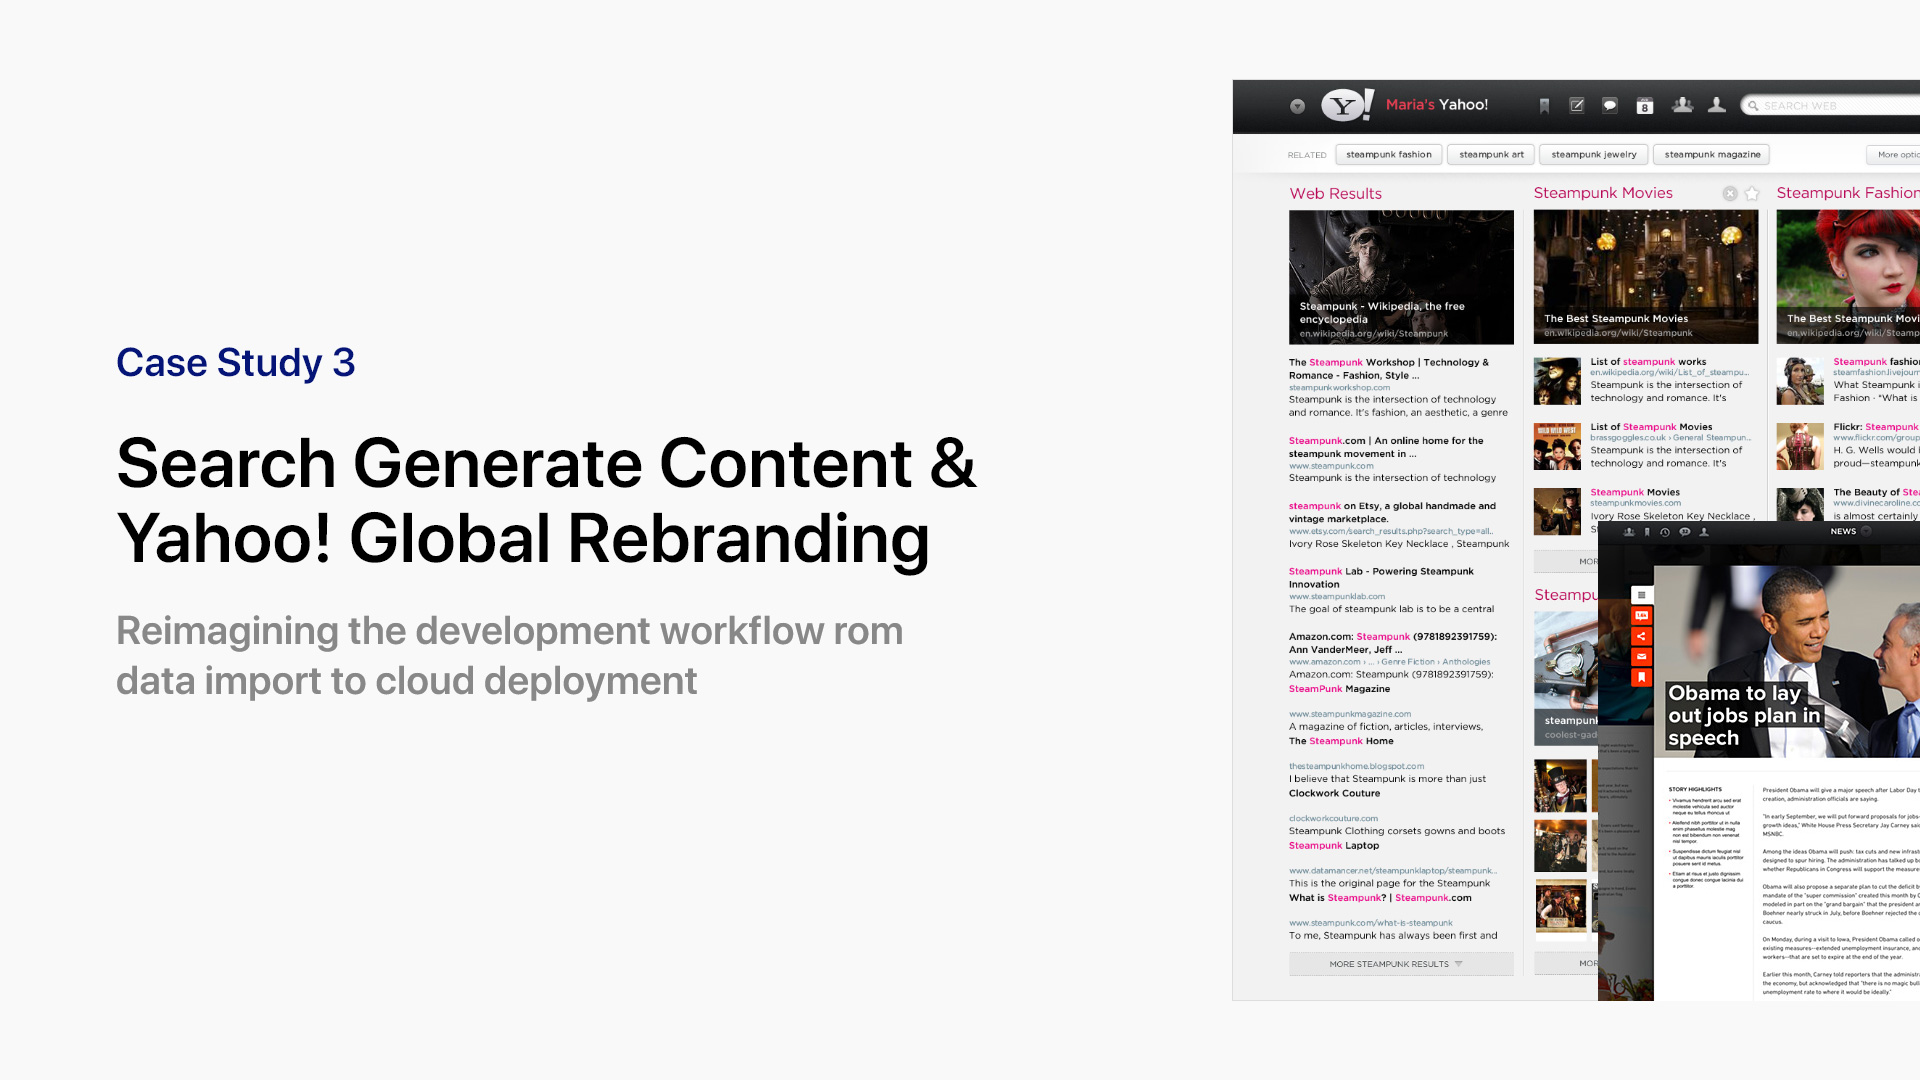
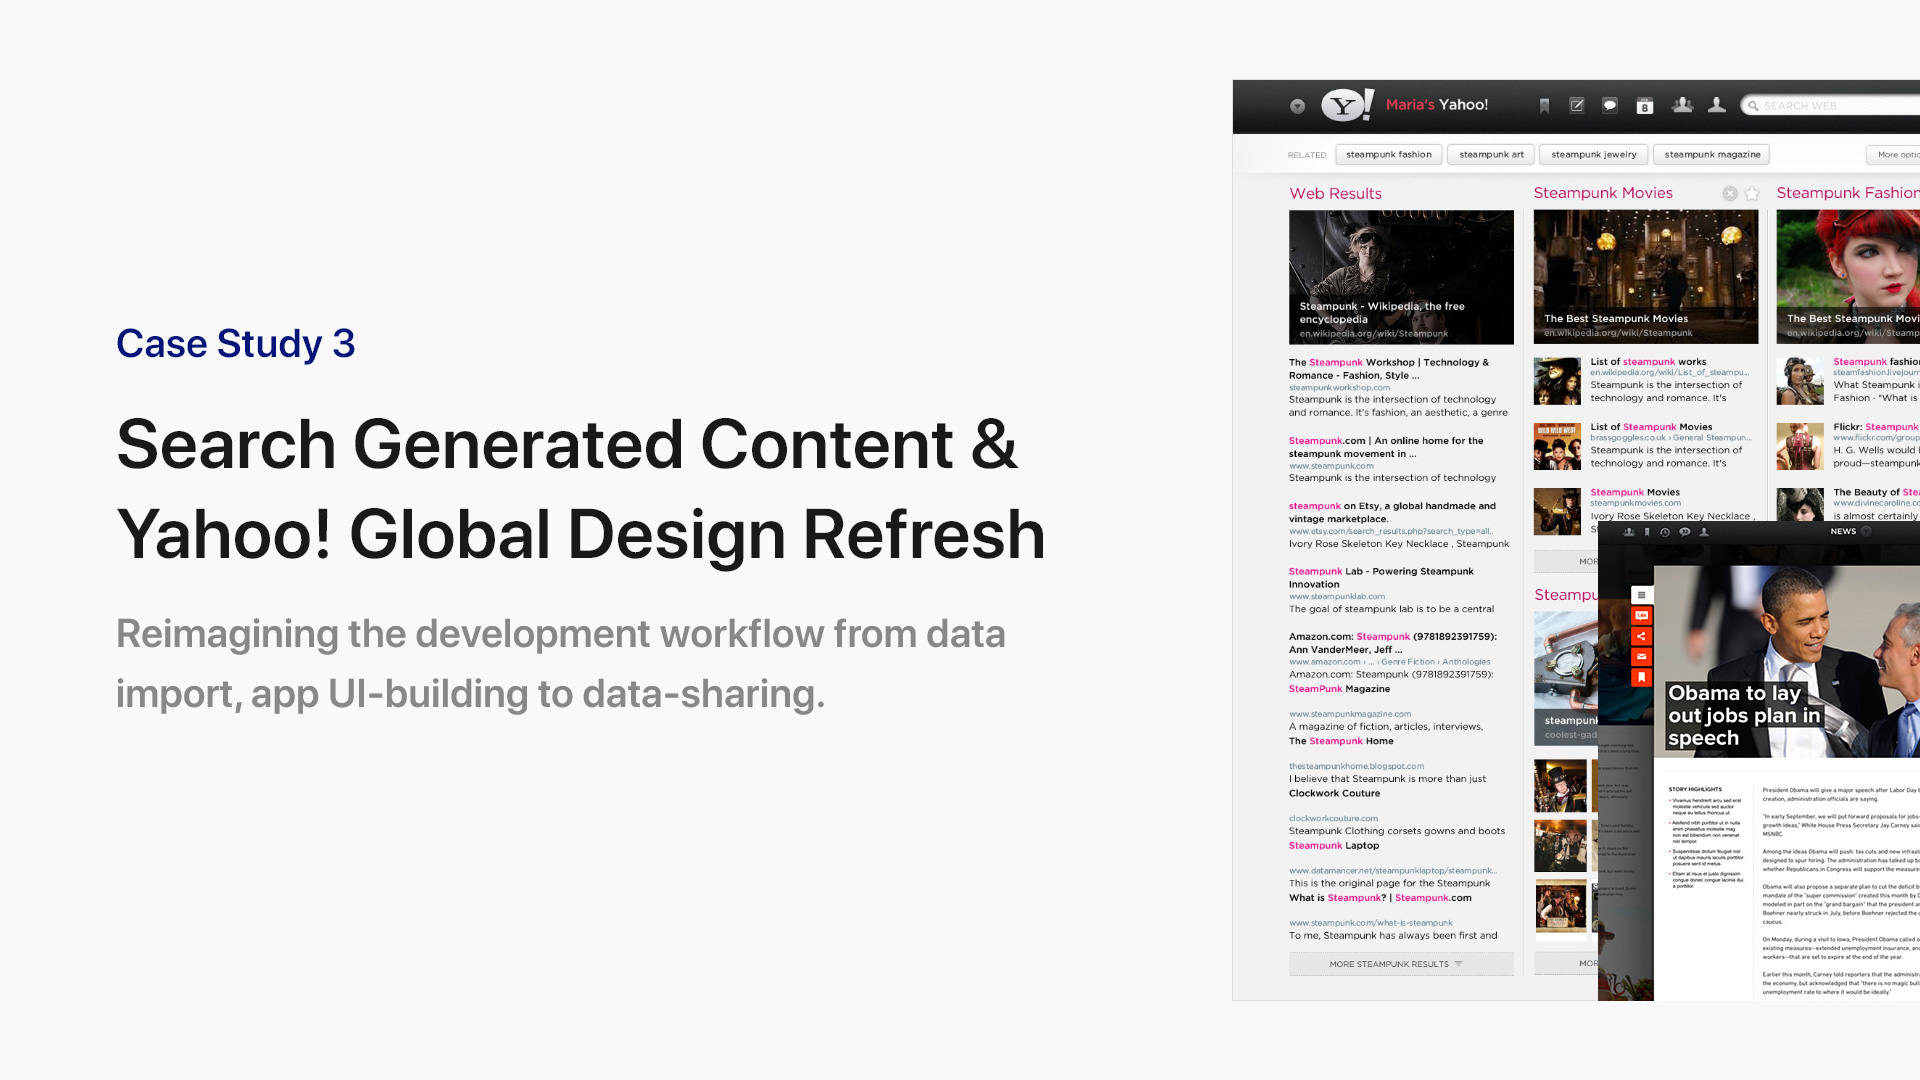
content update

Changed region(s): [[0.0625, 0.3056, 0.5625, 0.55], [0.0625, 0.55, 0.5312, 0.6722]]

diff --git a/8ec4981102569463be3512984154c66c098b92c5/index.html b/8ec4981102569463be3512984154c66c098b92c5/index.html
@@ -300,10 +300,16 @@
 			<hr class="my-5">
 			<h4 class="mt-4">Case Study 2 </h4><div class="small my-2">Cloud Administration Console & Mobile Client (2016)</div>
 			<div class="row row-negative-offset mt-3">
-			<div class="col-12 col-md-4 my-3">
+			<div class="col-12 col-md-6 my-3">
 				<div class="thumbnail-wrapper">
 					<a href="../img/portfolio/case_study2_01.jpg" data-toggle="lightbox" data-gallery="portfolio_slides">
 					<img src="../img/portfolio/case_study2_01.jpg" class="thumbnail"></a>
+				</div>
+			</div>
+			<div class="col-12 col-md-6 my-3">
+				<div class="thumbnail-wrapper">
+					<a href="../img/portfolio/case_study2_02.jpg" data-toggle="lightbox" data-gallery="portfolio_slides">
+					<img src="../img/portfolio/case_study2_02.jpg" class="thumbnail"></a>
 				</div>
 			</div>
 			<div class="col-12 col-md-4 my-3">
@@ -322,10 +328,16 @@
 			<hr class="my-5">
 			<h4 class="mt-4">Case Study 3 </h4><div class="small my-2">Search Generaged Content & Yahoo! Global Rebranding (2012)</div>
 			<div class="row row-negative-offset mt-3">
-			<div class="col-12 col-md-4 my-3">
+			<div class="col-12 col-md-6 my-3">
 				<div class="thumbnail-wrapper">
 					<a href="../img/portfolio/case_study3_01.jpg" data-toggle="lightbox" data-gallery="portfolio_slides">
 					<img src="../img/portfolio/case_study3_01.jpg" class="thumbnail"></a>
+				</div>
+			</div>
+			<div class="col-12 col-md-6 my-3">
+				<div class="thumbnail-wrapper">
+					<a href="../img/portfolio/case_study3_02.jpg" data-toggle="lightbox" data-gallery="portfolio_slides">
+					<img src="../img/portfolio/case_study3_02.jpg" class="thumbnail"></a>
 				</div>
 			</div>
 			<div class="col-12 col-md-4 my-3">
@@ -338,6 +350,12 @@
 				<div class="thumbnail-wrapper">
 					<a href="../img/portfolio/case_study3_04.jpg" data-toggle="lightbox" data-gallery="portfolio_slides">
 					<img src="../img/portfolio/case_study3_04.jpg" class="thumbnail"></a>
+				</div>
+			</div>
+			<div class="col-12 col-md-4 my-3">
+				<div class="thumbnail-wrapper">
+					<a href="../img/portfolio/case_study3_05.jpg" data-toggle="lightbox" data-gallery="portfolio_slides">
+					<img src="../img/portfolio/case_study3_05.jpg" class="thumbnail"></a>
 				</div>
 			</div>
 			</div>
